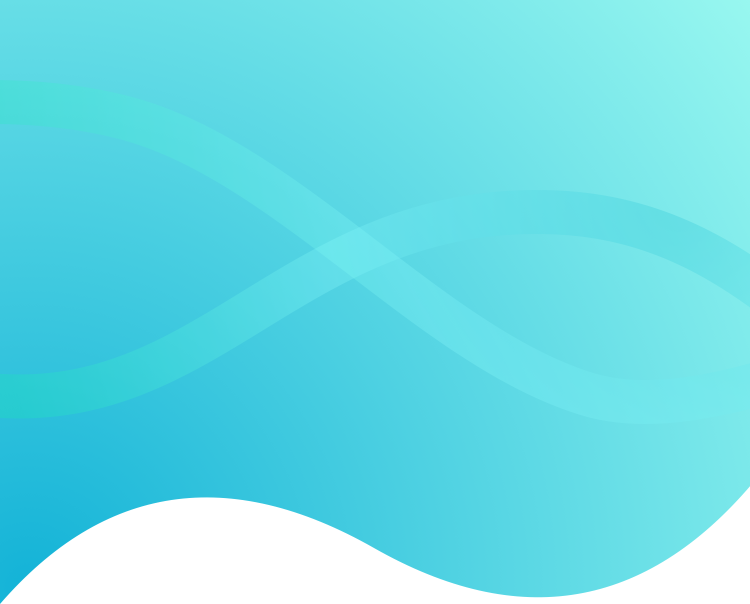
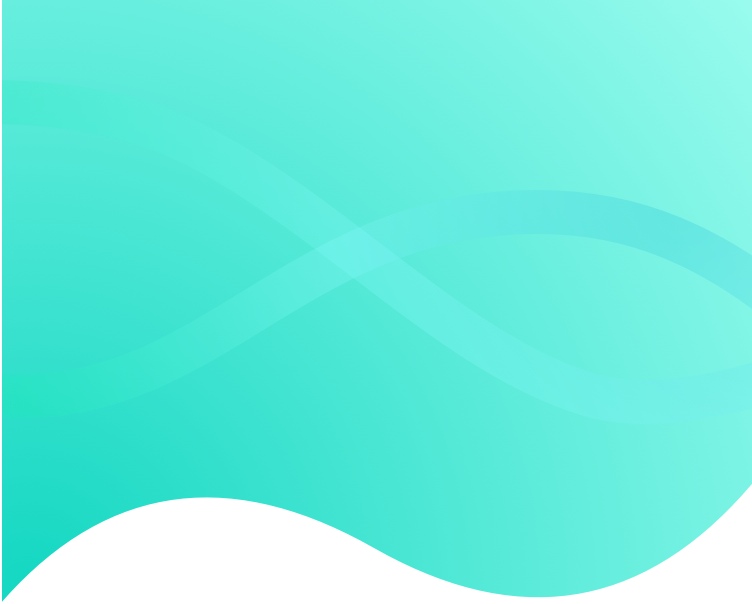
update

diff --git a/src/components/connection/ConnectAll.vue b/src/components/connection/ConnectAll.vue
@@ -3,7 +3,7 @@
     <!-- 'title','hasRight','back','parting','search','upload' -->
     <my-header title="全部联系人" back="true" backUrl='Connection'></my-header>
     <div class="all_connections">
-      <span v-if="index!=0">联系人></span>
+      <span v-if="curOriganizationDeep.length>0">联系人></span>
       <template v-for="(item,index) in curOriganizationDeep">
         <span v-if="index!=0">></span>
         <span :value="item.deptId" @click="returnLastDept(item)">{{item.deptName}}</span>
@@ -28,7 +28,7 @@
               <img class="user_head" src="../../assets/head@2x.png" />
               <span class="user_name">{{item.name}}</span>
             </div>
-            <img class="call" src="../../assets/call@2x.png" @click="Call()"/>
+            <img class="call" src="../../assets/call@2x.png"/>
           </div>
         </template>
     </div>
@@ -85,8 +85,17 @@
       }
     },
     methods: {
+      lastestConnectorUnique(arr){
+        for(var i=0;i<arr.length;i++){
+          for(var j=i+1;j<arr.length;j++){
+            if(arr[i].id ==arr[j].id){
+              arr.splice(j,1);
+            }
+          }
+        }
+        return arr;
+      },
       ConnectDetail(item){
-        console.log(item);
         this.$router.push({
           name:'ConnectDetails',
           params:{
@@ -108,7 +117,6 @@
       getOriganizations() {
         var _this = this;
         Organizations({}).then((response) => {
-          console.log(response);
           if (response.code == 0) {
             _this.origanizations = response.list;
             if(_this.origanizations.length>0){

diff --git a/src/components/Login.vue b/src/components/Login.vue
@@ -27,7 +27,7 @@
       {{message}}
     </div>
     <div class="login_btn" @click="goto()">
-      同意协议并登陆
+      登陆
     </div>
     <div class="no_login">登陆成功后7天内免登陆</div>
   </div>
@@ -227,7 +227,8 @@
         margin-left: 50px;
         border: none;
         background: #F0F0F0;
-
+        width: 45%;
+        max-width: 45%;
         font-size: 14px;
         font-family: PingFangSC-Regular, PingFang SC;
         font-weight: 400;
@@ -262,6 +263,8 @@
         font-weight: 400;
         color: #BABABA;
         line-height: 20px;
+        width: 45%;
+        max-width: 45%;
       }
     }
     .login_tip{

diff --git a/src/components/mission/Mission.vue b/src/components/mission/Mission.vue
@@ -84,13 +84,11 @@
 					forbidClick: true,
 				});
 				Missions({}).then((response) => {
-					console.log(response);
 					if(response.code == 0) {
 						_this.missionList = [];
 						_this.missionList = response.data.storyTaskListResponseList;
 						_this.common.setMissionNum(response.data.storyTaskListResponseList.length);
 						_this.missionListNum = response.data.storyTaskListResponseList.length;
-						console.log(_this.missionListNum);
 					} else {
 						Toast(response.message);
 						if(response.code == 401) {

diff --git a/src/components/start.vue b/src/components/start.vue
@@ -21,7 +21,7 @@
     name:'Start',
     data(){
       return{
-
+        autoToLogin:null
       }
     },
     created() {
@@ -44,12 +44,13 @@
             this.$router.push('Mine');
           }
         }else{
-          setTimeout(function(){
+          this.autoToLogin = setTimeout(function(){
             _this.$router.push('Login')
           },3000)
         }
       },
       start(){
+        clearTimeout(this.autoToLogin);
         this.$router.push('Login')
       }
     }

diff --git a/src/components/views/navigateBar.vue b/src/components/views/navigateBar.vue
@@ -67,7 +67,6 @@
 		methods: {
 			initPage(index) {
 				var index = this.$route.index;
-				console.log(this.$route);
 				this.navigateBarIndex = index;
 				this.common.setNavigateBarIndex(index);
 			},
@@ -75,7 +74,6 @@
 				this.navigateBarIndex = index;
         localStorage.setItem('navigateIndex',index);
 				this.common.setNavigateBarIndex(index);
-				console.log(this.navigateBarIndex);
 			},
 			addClassName: function(path) {
 				this.$router.replace(path);

diff --git a/src/components/mission/MissionBack.vue b/src/components/mission/MissionBack.vue
@@ -69,7 +69,6 @@
 		mounted() {
 			var _this = this;
 			$("#reason").on("input propertychange", function() {
-				console.log(11111)
 				var $this = $(this),
 					_val = $this.val(),
 					count = "";
@@ -122,7 +121,6 @@
 			},
 			reject() {
 				var _this = this;
-				console.log(this.selectedValue);
 				if(this.selectedValue === '') {
 					Toast('请选择退回节点');
 					return;

diff --git a/src/components/views/header.vue b/src/components/views/header.vue
@@ -33,7 +33,6 @@
 			goBack() {
 				if(this.backUrl) {
           if(this.backUrl=='emit'){
-            console.log('emit....');
             this.$emit('goBack');
           }else{
             this.$router.push(this.backUrl);

diff --git a/src/components/views/myTab.vue b/src/components/views/myTab.vue
@@ -88,7 +88,7 @@
     .tab_active{
       width: 22px;
       height: 3px;
-      background: #4783FE;
+      background: #009C86;
       border-radius: 2px;
       display: block;
       position: absolute;

diff --git a/src/components/connection/connection.vue b/src/components/connection/connection.vue
@@ -53,7 +53,6 @@
     },
     methods:{
       goConnectDetail(item){
-        console.log(item);
         this.$router.push({
           name:'ConnectDetails',
           params:{

diff --git a/src/components/connection/ConnectDetails.vue b/src/components/connection/ConnectDetails.vue
@@ -46,7 +46,6 @@
       }
     },
     created() {
-      console.log(this.$route.params.user)
       this.userInfo = this.$route.params.user;
     },
     computed: {

diff --git a/src/components/connection/Calling.vue b/src/components/connection/Calling.vue
@@ -56,7 +56,6 @@
 			}
 		},
 		created() {
-			console.log(this.$route.params.userInfo)
 			this.userInfo = this.$route.params.userInfo;
 		},
 		methods: {

diff --git a/src/components/connection/VideoCall.vue b/src/components/connection/VideoCall.vue
@@ -47,7 +47,6 @@
 			}
 		},
 		created() {
-			console.log(this.$route.params.userInfo)
 			this.userInfo = this.$route.params.userInfo;
 		},
 		methods: {
